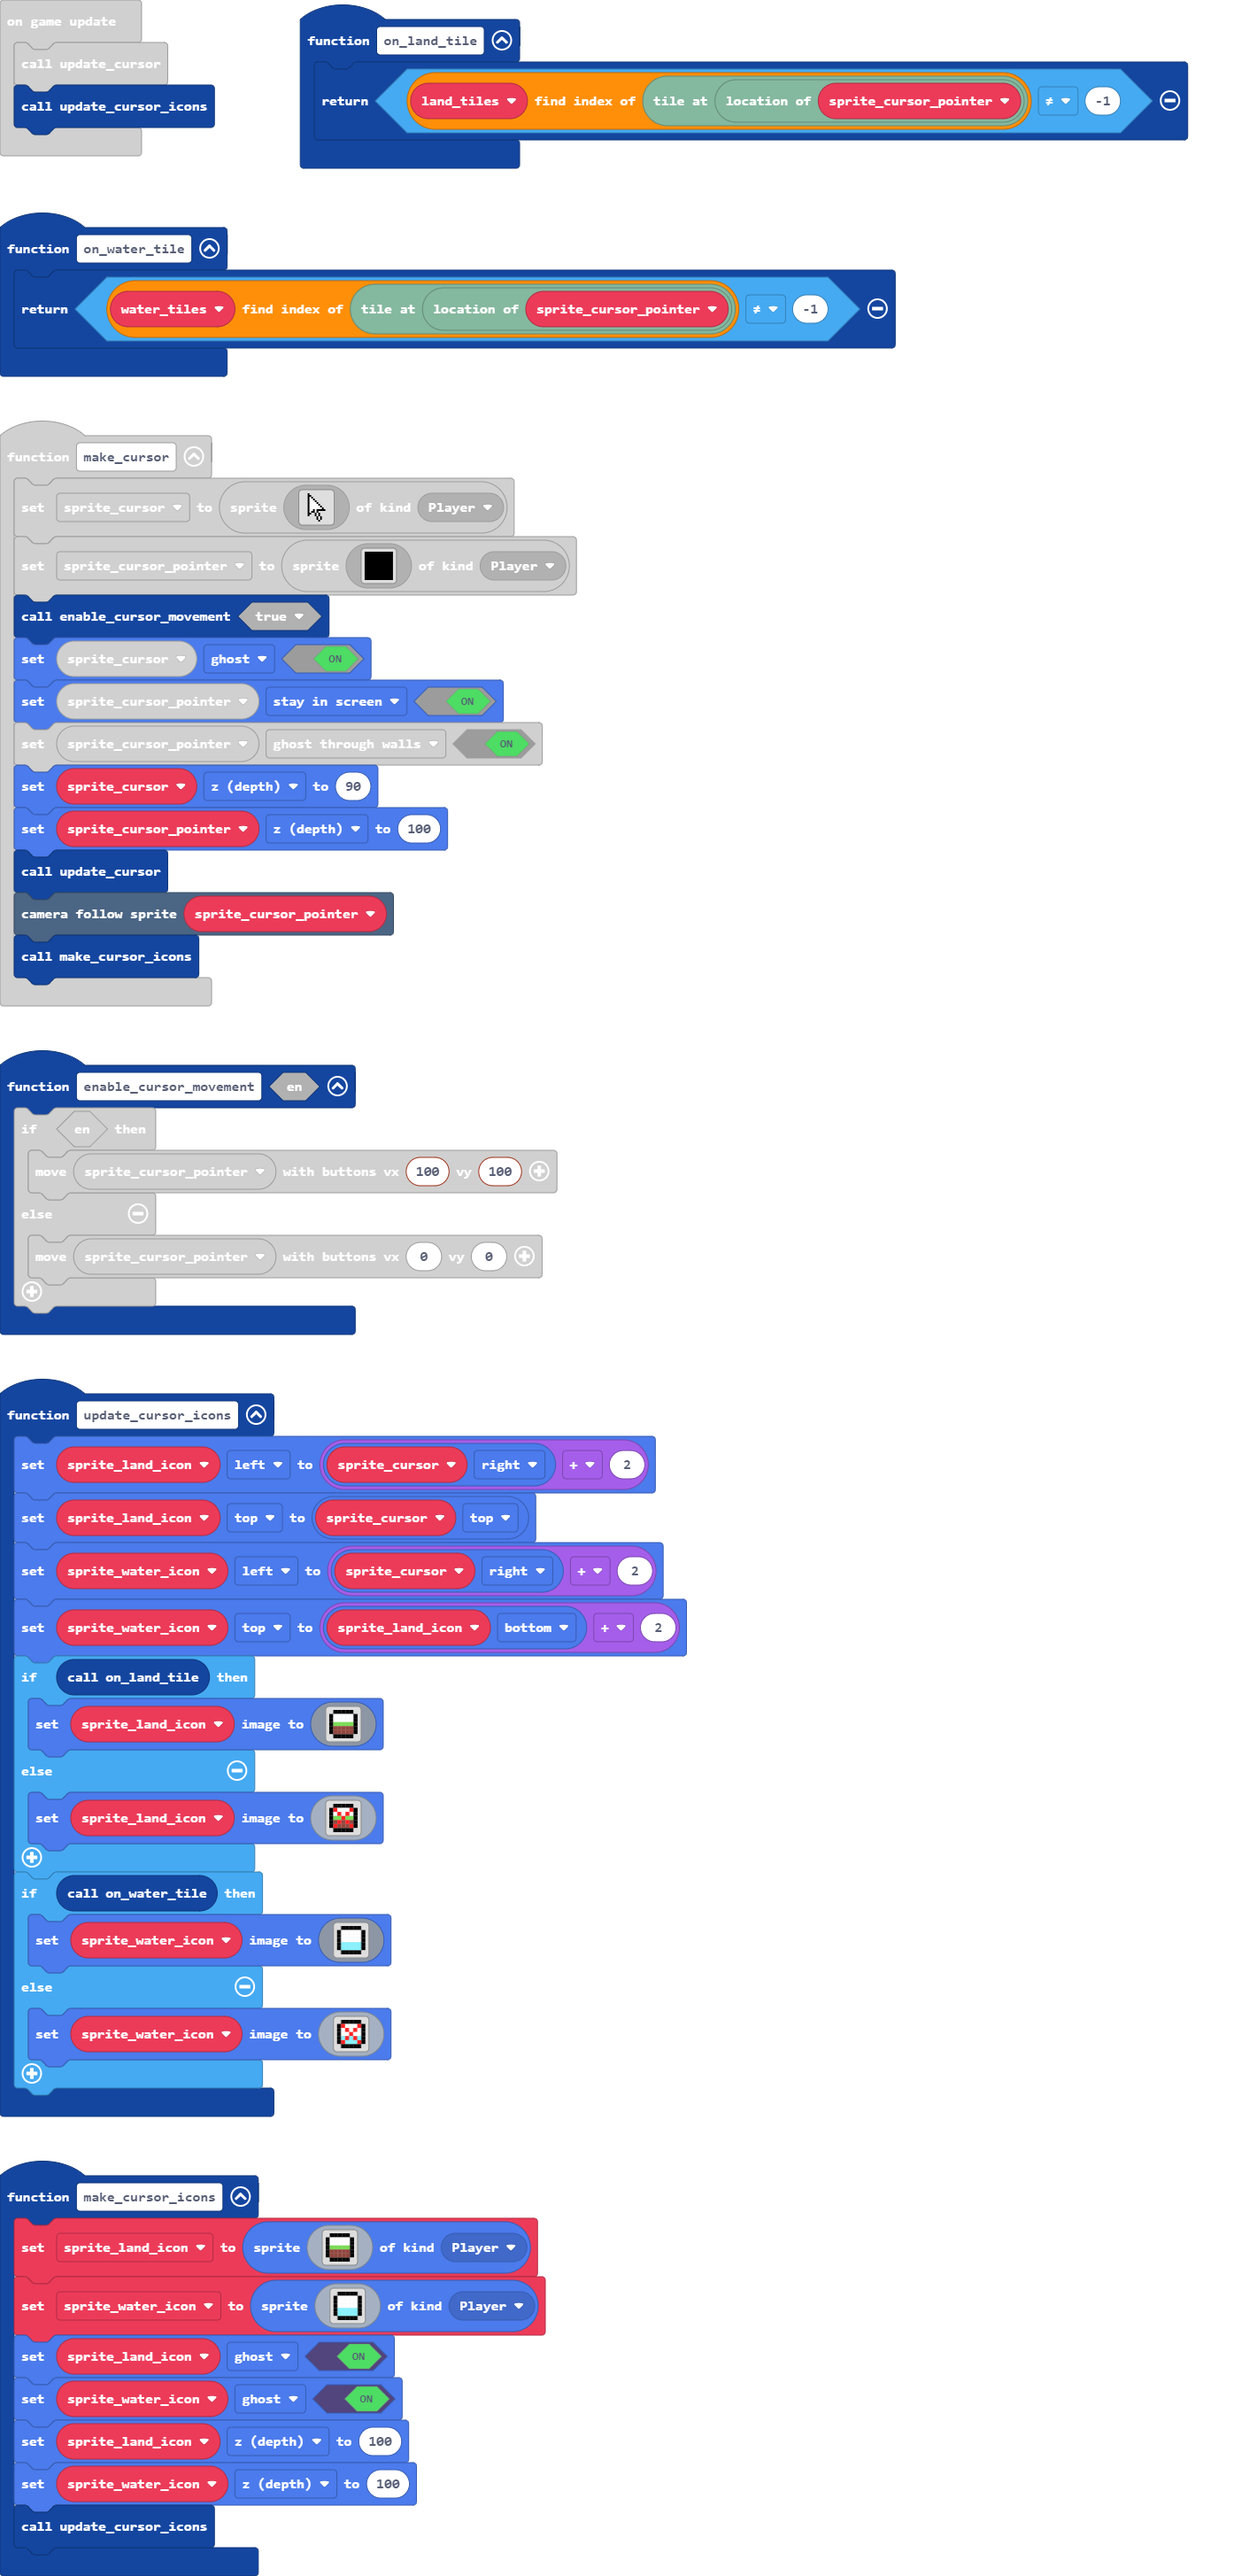
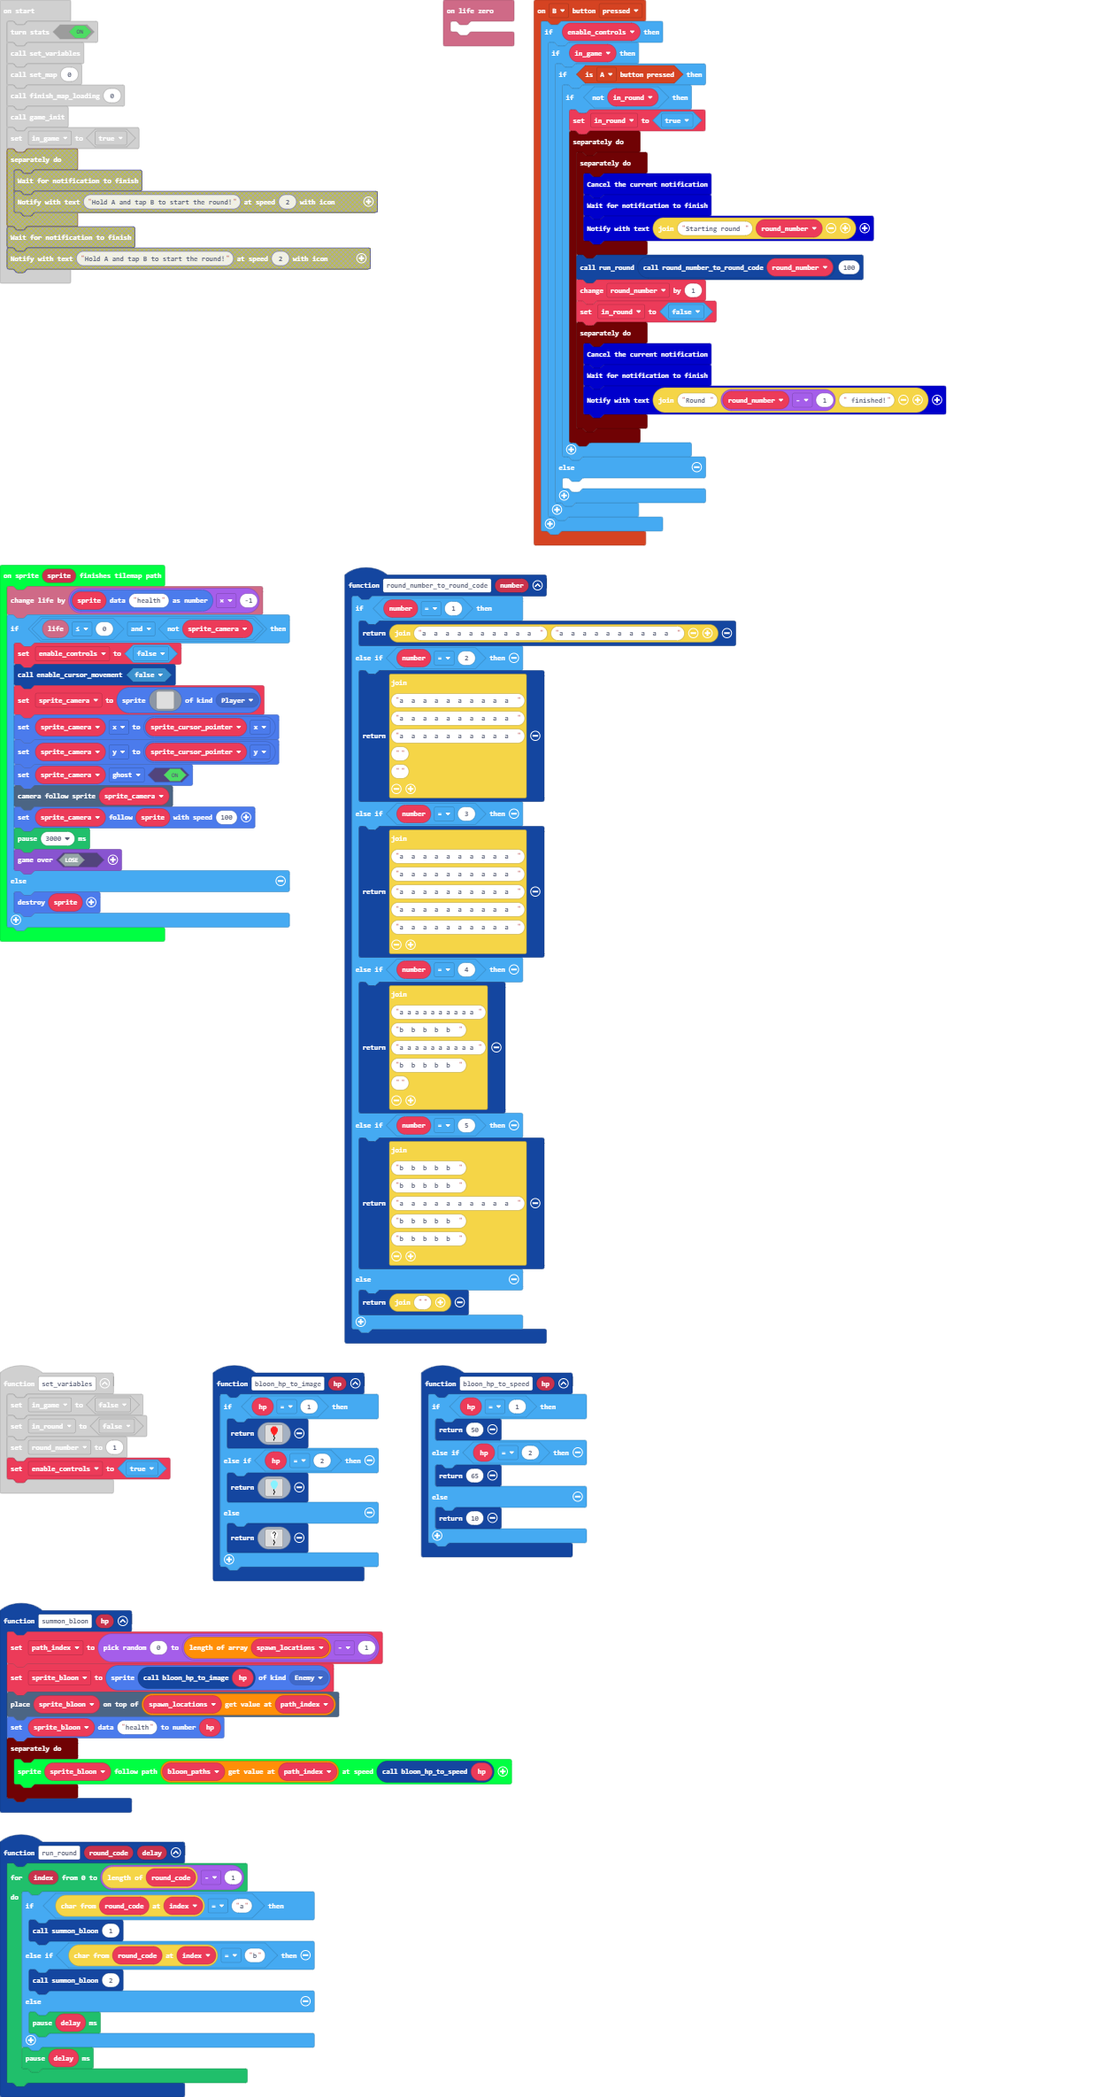
Can start rounds

diff --git a/main.ts b/main.ts
@@ -9,7 +9,36 @@ function set_variables () {
     in_game = false
     in_round = false
     round_number = 1
+    enable_controls = true
 }
+controller.B.onEvent(ControllerButtonEvent.Pressed, function () {
+    if (enable_controls) {
+        if (in_game) {
+            if (controller.A.isPressed()) {
+                if (!(in_round)) {
+                    in_round = true
+                    timer.background(function () {
+                        timer.background(function () {
+                            Notification.cancelNotification()
+                            Notification.waitForNotificationFinish()
+                            Notification.notify("Starting round " + round_number)
+                        })
+                        run_round(round_number_to_round_code(round_number), 100)
+                        round_number += 1
+                        in_round = false
+                        timer.background(function () {
+                            Notification.cancelNotification()
+                            Notification.waitForNotificationFinish()
+                            Notification.notify("Round " + (round_number - 1) + " finished!")
+                        })
+                    })
+                }
+            } else {
+            	
+            }
+        }
+    }
+})
 function make_cursor_icons () {
     sprite_land_icon = sprites.create(assets.image`land_icon`, SpriteKind.Player)
     sprite_water_icon = sprites.create(assets.image`water_icon`, SpriteKind.Player)
@@ -19,11 +48,35 @@ function make_cursor_icons () {
     sprite_water_icon.z = 100
     update_cursor_icons()
 }
+function bloon_hp_to_image (hp: number) {
+    if (hp == 1) {
+        return assets.image`hp_1_bloon`
+    } else if (hp == 2) {
+        return assets.image`hp_2_bloon`
+    } else {
+        return assets.image`hp_unknown_bloon`
+    }
+}
 function enable_cursor_movement (en: boolean) {
     if (en) {
         controller.moveSprite(sprite_cursor_pointer, 100, 100)
     } else {
         controller.moveSprite(sprite_cursor_pointer, 0, 0)
+    }
+}
+function round_number_to_round_code (number: number) {
+    if (number == 1) {
+        return "a  a  a  a  a  a  a  a  a  a  " + "a  a  a  a  a  a  a  a  a  a  "
+    } else if (number == 2) {
+        return "a  a  a  a  a  a  a  a  a  a  " + "a  a  a  a  a  a  a  a  a  a  " + "a  a  a  a  a  a  a  a  a  a  " + "" + ""
+    } else if (number == 3) {
+        return "a  a  a  a  a  a  a  a  a  a  " + "a  a  a  a  a  a  a  a  a  a  " + "a  a  a  a  a  a  a  a  a  a  " + "a  a  a  a  a  a  a  a  a  a  " + "a  a  a  a  a  a  a  a  a  a  "
+    } else if (number == 4) {
+        return "a a a a a a a a a a " + "b  b  b  b  b  " + "a a a a a a a a a a " + "b  b  b  b  b  " + ""
+    } else if (number == 5) {
+        return "b  b  b  b  b  " + "b  b  b  b  b  " + "a  a  a  a  a  a  a  a  a  a  " + "b  b  b  b  b  " + "b  b  b  b  b  "
+    } else {
+        return ""
     }
 }
 function finish_tilemap () {
@@ -101,14 +154,55 @@ function set_map (index: number) {
         set_walk_in_the_park_map()
     }
 }
+function bloon_hp_to_speed (hp: number) {
+    if (hp == 1) {
+        return 50
+    } else if (hp == 2) {
+        return 65
+    } else {
+        return 10
+    }
+}
 function on_water_tile () {
     return water_tiles.indexOf(tiles.getTileAtLocation(tiles.locationOfSprite(sprite_cursor_pointer))) != -1
 }
+function run_round (round_code: string, delay: number) {
+    for (let index = 0; index <= round_code.length - 1; index++) {
+        if (round_code.charAt(index) == "a") {
+            summon_bloon(1)
+        } else if (round_code.charAt(index) == "b") {
+            summon_bloon(2)
+        } else {
+            pause(delay)
+        }
+        pause(delay)
+    }
+}
+info.onLifeZero(function () {
+	
+})
 function finish_map_loading (index: number) {
     if (index == 0) {
         finish_walk_in_the_park_map()
     }
 }
+TilemapPath.onEventWithHandlerArgs(function (sprite) {
+    info.changeLifeBy(sprites.readDataNumber(sprite, "health") * -1)
+    if (info.life() <= 0 && !(sprite_camera)) {
+        enable_controls = false
+        enable_cursor_movement(false)
+        sprite_camera = sprites.create(assets.image`blank`, SpriteKind.Player)
+        sprite_camera.x = sprite_cursor_pointer.x
+        sprite_camera.y = sprite_cursor_pointer.y
+        sprite_camera.setFlag(SpriteFlag.Ghost, true)
+        scene.cameraFollowSprite(sprite_camera)
+        sprite_camera.follow(sprite, 100)
+        pause(3000)
+        game.over(false)
+    } else {
+        sprite.destroy()
+    }
+})
 function update_cursor_icons () {
     sprite_land_icon.left = sprite_cursor.right + 2
     sprite_land_icon.top = sprite_cursor.top
@@ -125,11 +219,24 @@ function update_cursor_icons () {
         sprite_water_icon.setImage(assets.image`no_water_icon`)
     }
 }
+function summon_bloon (hp: number) {
+    path_index = randint(0, spawn_locations.length - 1)
+    sprite_bloon = sprites.create(bloon_hp_to_image(hp), SpriteKind.Enemy)
+    tiles.placeOnTile(sprite_bloon, spawn_locations[path_index])
+    sprites.setDataNumber(sprite_bloon, "health", hp)
+    timer.background(function () {
+        TilemapPath.follow_path(sprite_bloon, bloon_paths[path_index], bloon_hp_to_speed(hp))
+    })
+}
+let sprite_bloon: Sprite = null
+let path_index = 0
+let sprite_camera: Sprite = null
 let bloon_paths: TilemapPath.TilemapPath[] = []
 let spawn_locations: tiles.Location[] = []
 let water_tiles: Image[] = []
 let sprite_water_icon: Sprite = null
 let sprite_land_icon: Sprite = null
+let enable_controls = false
 let round_number = 0
 let in_round = false
 let sprite_cursor: Sprite = null
@@ -142,10 +249,6 @@ set_map(0)
 finish_map_loading(0)
 game_init()
 in_game = true
-timer.background(function () {
-    Notification.waitForNotificationFinish()
-    Notification.notify("Hold A and tap B to start the round!")
-})
 game.onUpdate(function () {
     update_cursor()
     update_cursor_icons()

diff --git a/images.g.ts b/images.g.ts
@@ -66,6 +66,67 @@ f 9 9 9 9 9 f
 f 9 9 9 9 9 f 
 . f f f f f . 
 `;
+            case "0hyT7$QtX/$dNo~Naxo5":
+            case "hp_1_bloon":return img`
+. . . . . . 2 2 2 2 . . . . . . 
+. . . . . 2 2 2 2 2 2 . . . . . 
+. . . . 2 2 2 2 2 2 2 2 . . . . 
+. . . . 2 2 2 2 2 2 2 2 . . . . 
+. . . . 2 2 2 2 2 2 2 2 . . . . 
+. . . . 2 2 2 2 2 2 2 2 . . . . 
+. . . . . 2 2 2 2 2 2 . . . . . 
+. . . . . 2 2 2 2 2 2 . . . . . 
+. . . . . . 2 2 2 2 . . . . . . 
+. . . . . . . 2 2 . . . . . . . 
+. . . . . . . f . . . . . . . . 
+. . . . . . . f . . . . . . . . 
+. . . . . . . . f . . . . . . . 
+. . . . . . . . f . . . . . . . 
+. . . . . . . f . . . . . . . . 
+. . . . . . . f . . . . . . . . 
+`;
+            case "jCOKDI+Qd!s1;`BOR70#":
+            case "hp_unknown_bloon":return img`
+. . . . . . 1 1 1 1 . . . . . . 
+. . . . . 1 1 f f 1 1 . . . . . 
+. . . . 1 1 f 1 1 f 1 1 . . . . 
+. . . . 1 1 1 1 1 f 1 1 . . . . 
+. . . . 1 1 1 1 f 1 1 1 . . . . 
+. . . . 1 1 1 1 f 1 1 1 . . . . 
+. . . . . 1 1 1 1 1 1 . . . . . 
+. . . . . 1 1 1 f 1 1 . . . . . 
+. . . . . . 1 1 1 1 . . . . . . 
+. . . . . . . 1 1 . . . . . . . 
+. . . . . . . f . . . . . . . . 
+. . . . . . . f . . . . . . . . 
+. . . . . . . . f . . . . . . . 
+. . . . . . . . f . . . . . . . 
+. . . . . . . f . . . . . . . . 
+. . . . . . . f . . . . . . . . 
+`;
+            case "?}0AAvFnmx#eGe":
+            case "blank":return img`
+. 
+`;
+            case "T[Q?Zt}2Nd)kH$R[!{}i":
+            case "hp_2_bloon":return img`
+. . . . . . 9 9 9 9 . . . . . . 
+. . . . . 9 9 9 9 9 9 . . . . . 
+. . . . 9 9 9 9 9 9 9 9 . . . . 
+. . . . 9 9 9 9 9 9 9 9 . . . . 
+. . . . 9 9 9 9 9 9 9 9 . . . . 
+. . . . 9 9 9 9 9 9 9 9 . . . . 
+. . . . . 9 9 9 9 9 9 . . . . . 
+. . . . . 9 9 9 9 9 9 . . . . . 
+. . . . . . 9 9 9 9 . . . . . . 
+. . . . . . . 9 9 . . . . . . . 
+. . . . . . . f . . . . . . . . 
+. . . . . . . f . . . . . . . . 
+. . . . . . . . f . . . . . . . 
+. . . . . . . . f . . . . . . . 
+. . . . . . . f . . . . . . . . 
+. . . . . . . f . . . . . . . . 
+`;
         }
         return null;
     })
